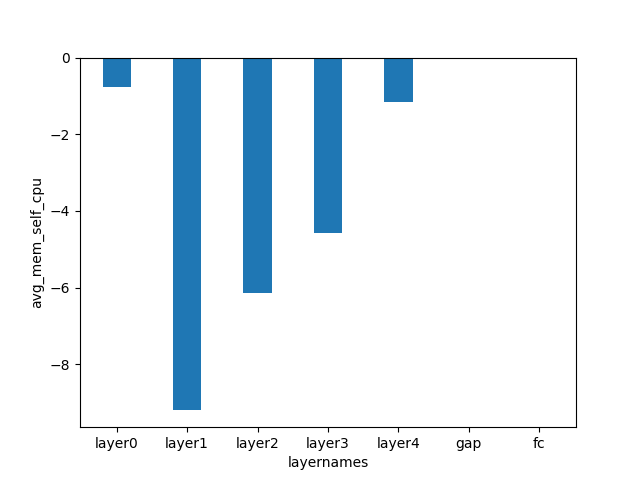
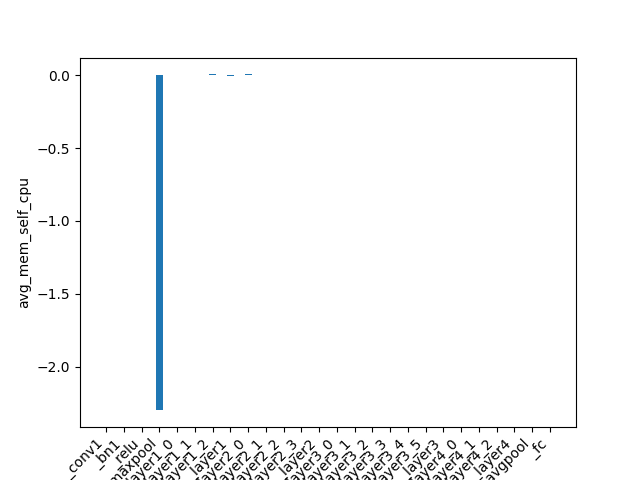
tackle inner layers

diff --git a/resnet.py b/resnet.py
@@ -1,0 +1,69 @@
+import torch
+from torchsummary import summary
+from torch import nn
+from torch.profiler import profile, record_function, ProfilerActivity
+import torchvision
+
+from timer import Clock
+from memorizer import MemRec
+
+device = "cuda:0" if torch.cuda.is_available() else "cpu"
+usingcuda = device == "cuda:0"
+
+tt = Clock()
+mr = MemRec()
+
+resnet = torchvision.models.resnet50(pretrained=True)
+x = torch.rand(1, 3, 224, 224)
+
+# for name, layer in resnet.named_children():
+#     print(name, '\n', layer)
+
+def itrResLayer(model, parentLayer, input, recursive=False):
+    # make sure inner layers wont mess up residual steps
+    x = input.clone()
+
+    for name, layer in model.named_children():
+
+        # flatten for the fc layer
+        if name == "fc":
+            x = torch.flatten(x, 1)  # the flatten step is not analyzed
+
+        # update layer name (after flatten before fc layers)
+        name = f"{parentLayer}_{name}"
+        print(name)
+
+        # recursively iterate all sequential layers
+        if recursive and type(layer) == nn.Sequential:
+            itrResLayer(layer, name, x, recursive=True)
+
+        # find mem consumption
+        tmp_x = torch.clone(x)
+        with profile(
+                activities=
+                [
+                    ProfilerActivity.CPU
+                ] if not usingcuda else
+                [
+                    ProfilerActivity.CPU,
+                    ProfilerActivity.CUDA
+                ],
+                profile_memory=True, record_shapes=True
+            ) as prof:
+            with record_function("model_inference"):
+                layer(tmp_x)
+        prof_report = str(prof.key_averages().table()).split("\n")
+        mr.get_mem(name, prof_report, usingcuda)
+
+        # find runtime
+        tt.tic(name)
+        x = layer(x)
+        tt.toc(name)
+
+for i in range(10):
+    itrResLayer(resnet, "", x, recursive=True)
+    # break
+
+tt.report(sample=False)
+mr.report(sample=False)
+

diff --git a/memorizer.py b/memorizer.py
@@ -94,6 +94,7 @@ class MemRec(object):
         plt.bar(layernames, avg_mems, width = 0.4)
         
         plt.xlabel("layernames")
+        plt.xticks(rotation=45, ha="right")
         plt.ylabel("avg_mem_self_cpu")
         plt.savefig("layer-avg_mem_self_cpu.png")
 
@@ -111,6 +112,7 @@ class MemRec(object):
         plt.bar(layernames, avg_mems, width = 0.4)
         
         plt.xlabel("layernames")
+        plt.xticks(rotation=45, ha="right")
         plt.ylabel("avg_mem_cpu")
         plt.savefig("layer-avg_mem_cpu.png")
 
@@ -129,6 +131,7 @@ class MemRec(object):
             plt.bar(layernames, avg_mems, width = 0.4)
             
             plt.xlabel("layernames")
+            plt.xticks(rotation=45, ha="right")
             plt.ylabel("avg_mem_self_cuda")
             plt.savefig("layer-avg_mem_self_cuda.png")
 
@@ -146,6 +149,7 @@ class MemRec(object):
             plt.bar(layernames, avg_mems, width = 0.4)
             
             plt.xlabel("layernames")
+            plt.xticks(rotation=45, ha="right")
             plt.ylabel("avg_mem_cuda")
             plt.savefig("layer-avg_mem_cuda.png")
 

diff --git a/timer.py b/timer.py
@@ -33,8 +33,9 @@ class Clock(object):
 
         fig = plt.figure()
         # creating the bar plot
-        plt.bar(layernames, avg_times, width = 0.4)
+        plt.bar(layernames, avg_times, width=0.4)
         
         plt.xlabel("layernames")
+        plt.xticks(rotation=45, ha="right")
         plt.ylabel("avg_times")
         plt.savefig("layer-avg_time.png")
